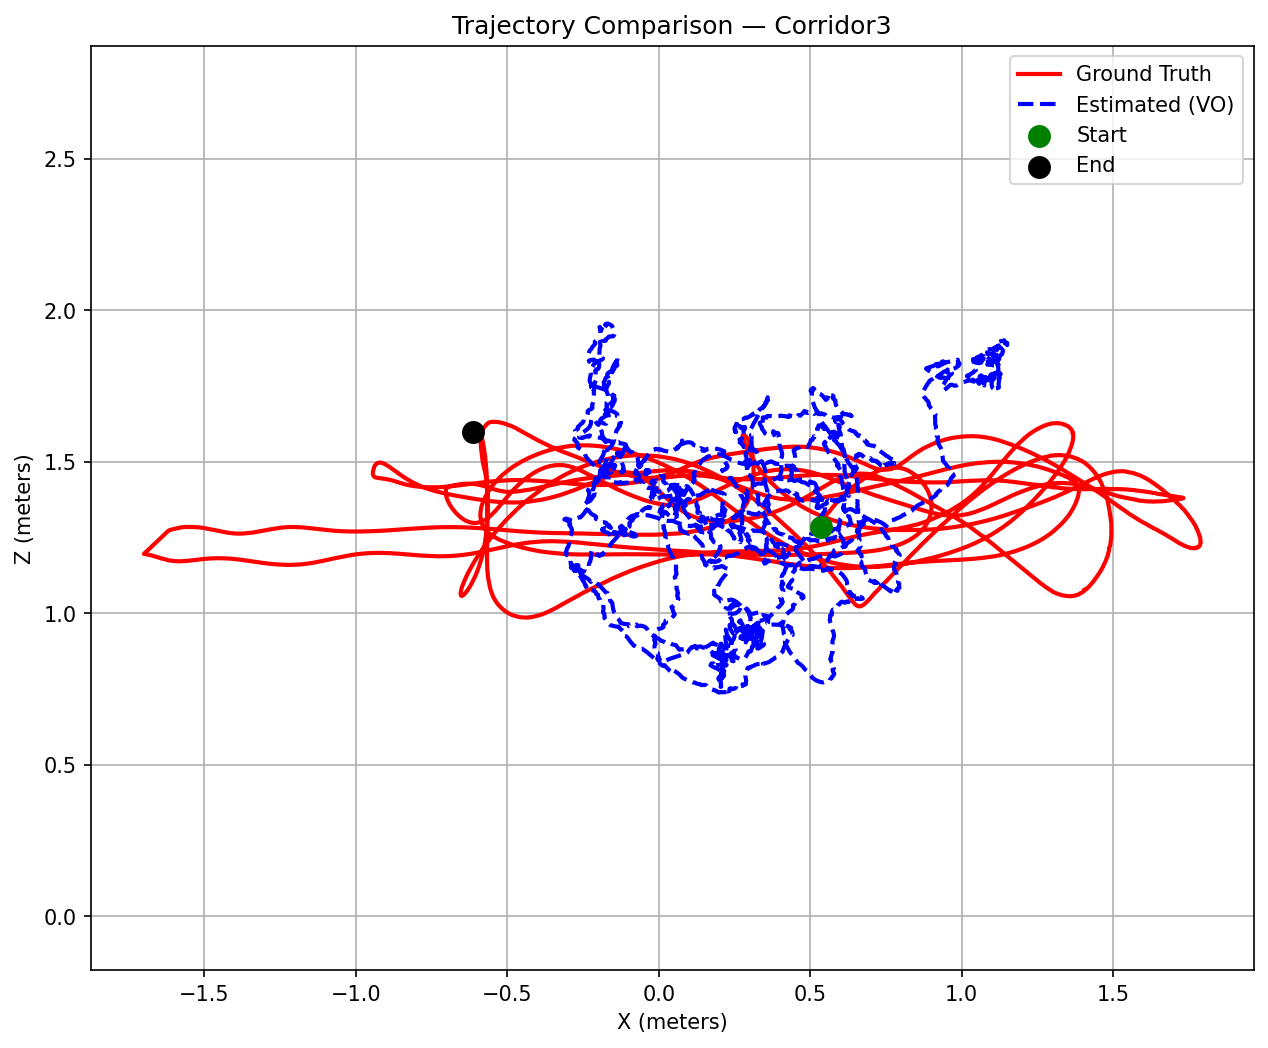
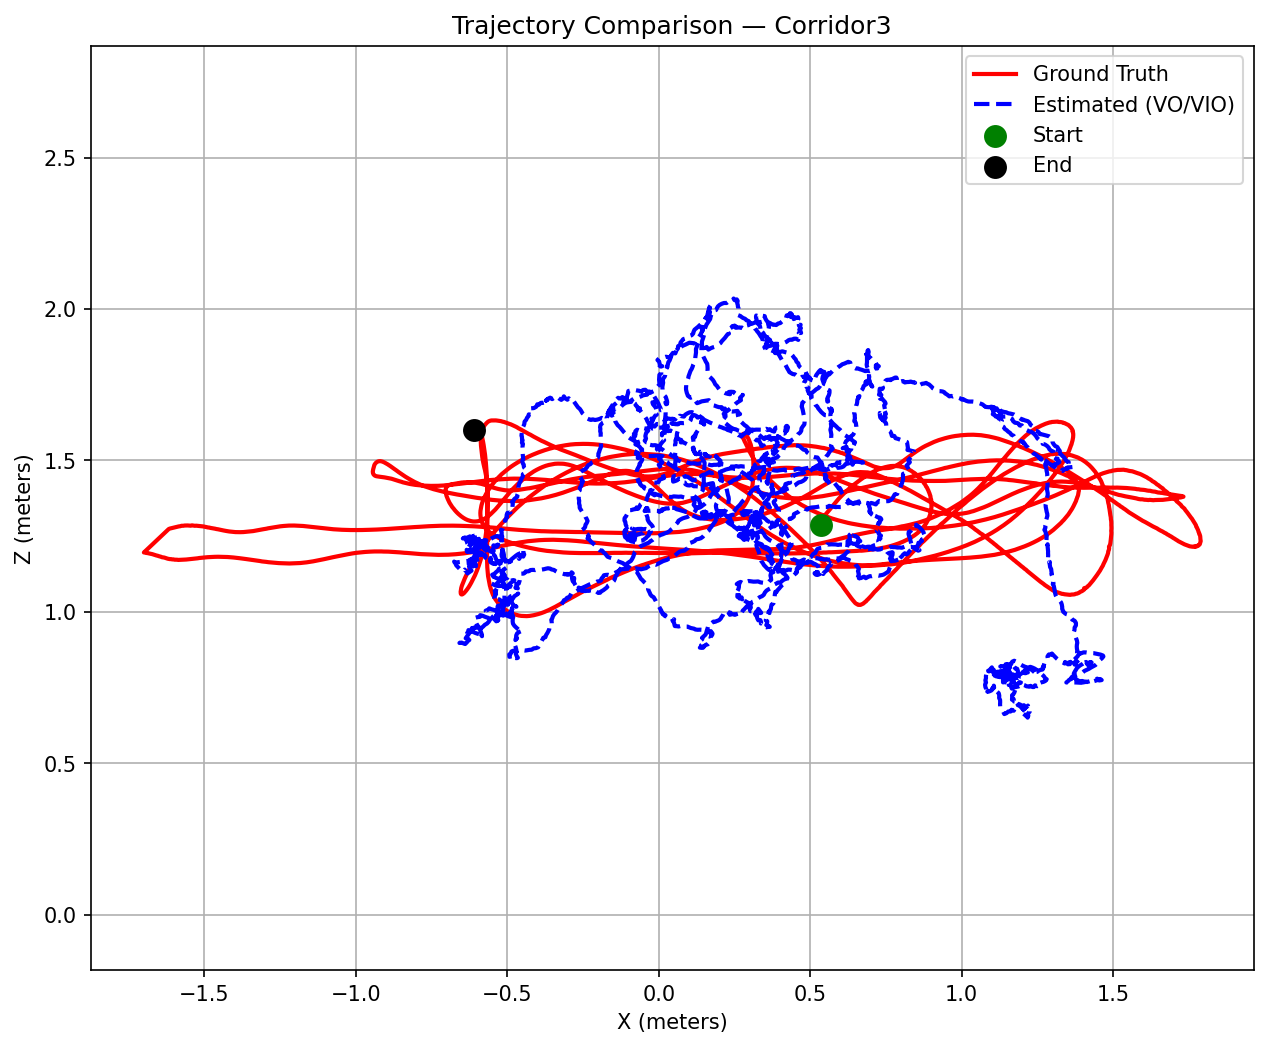
Added cross-check feature matching, final VO and VIO results

diff --git a/evaluate.py b/evaluate.py
@@ -8,23 +8,23 @@ from src.evaluation.ate import load_trajectory, compute_ate, align_trajectories,
 # Load estimated trajectory
 #traj_est = load_trajectory('results/trajectories/room2_vo.txt')
 #traj_est = load_trajectory('results/trajectories/corridor3_vo.txt')
-#traj_est = load_trajectory('results/trajectories/outdoors5_vo.txt')
+traj_est = load_trajectory('results/trajectories/outdoors5_vo.txt')
 #traj_est = load_trajectory('results/trajectories/room2_vio.txt')
-traj_est = load_trajectory('results/trajectories/corridor3_vio.txt')
+#traj_est = load_trajectory('results/trajectories/corridor3_vio.txt')
 
 # Load ground truth
 #gt_data = np.loadtxt('data/dataset-room2_512_16/dso/gt_imu.csv',
 #                      delimiter=',', skiprows=1)
 #gt_data = np.loadtxt('data/dataset-corridor3_512_16/dso/gt_imu.csv',
 #                      delimiter=',', skiprows=1)
-#gt_data = np.loadtxt('data/dataset-outdoors5_512_16/dso/gt_imu.csv',
-#                      delimiter=',', skiprows=1)
+gt_data = np.loadtxt('data/dataset-outdoors5_512_16/dso/gt_imu.csv',
+                      delimiter=',', skiprows=1)
 #gt_data = np.loadtxt('data/dataset-room2_512_16/dso/gt_imu.csv',
 #                      delimiter=',', skiprows=1)
 #gt_data = np.loadtxt('data/dataset-corridor3_512_16/dso/gt_imu.csv',
 #                      delimiter=',', skiprows=1)
-gt_data = np.loadtxt('data/dataset-outdoors5_512_16/dso/gt_imu.csv',
-                      delimiter=',', skiprows=1)
+#gt_data = np.loadtxt('data/dataset-outdoors5_512_16/dso/gt_imu.csv',
+#                      delimiter=',', skiprows=1)
 
 
 traj_gt = gt_data[:, 1:4]
@@ -37,13 +37,13 @@ traj_gt = traj_gt[:min_len]
 
 # Align trajectory properly using Umeyama
 # For VO use Sim(3):
-# traj_est_aligned = align_trajectories(traj_est, traj_gt)
+traj_est_aligned = align_trajectories(traj_est, traj_gt)
 
 # For VIO use SE(3):
-traj_est_aligned = align_se3(traj_est, traj_gt)
+#traj_est_aligned = align_se3(traj_est, traj_gt)
 
 # Sim(3) alignment for visual comparison only
-traj_est_sim3 = align_trajectories(traj_est, traj_gt)
+#traj_est_sim3 = align_trajectories(traj_est, traj_gt)
 
 # Compute ATE (after alignment)
 ate = compute_ate(traj_est, traj_gt)
@@ -54,29 +54,14 @@ rpe = compute_rpe(traj_est_aligned, traj_gt)
 print(f'RPE: {rpe:.4f} meters/100m')
 
 # Print clean results table
-#print_results('Room2', ate, rpe)
-#print_results('Corridor3', ate, rpe)
-#print_results('Outdoors5', ate, rpe)
 #print_results('Room2 VIO', ate, rpe)
 #print_results('Corridor3 VIO', ate, rpe)
-print_results('Outdoors5 VIO', ate, rpe)
+#print_results('Outdoors5 VIO', ate, rpe)
+#print_results('Room2 VO (with cross-check)', ate, rpe)
+#print_results('Room2 VO', ate, rpe)
+#print_results('Corridor3 VO', ate, rpe)
+print_results('Outdoors5 VO', ate, rpe)
 
-
-# Plot aligned trajectory
-#plot_trajectory_2d(
-#    traj_est_aligned, traj_gt,
-#    'Room2', 'results/plots/room2_vo.png'
-#)
-
-#plot_trajectory_2d(
-#    traj_est_aligned, traj_gt,
-#    'Corridor3', 'results/plots/corridor3_vo.png'
-#)
-
-#plot_trajectory_2d(
-#    traj_est_aligned, traj_gt,
-#    'Outdoors5', 'results/plots/outdoors5_vo.png'
-#)
 
 
 # Plot 1: SE(3) — honest evaluation
@@ -96,9 +81,21 @@ print_results('Outdoors5 VIO', ate, rpe)
 #    'Corridor3 VIO Sim3', 'results/plots/corridor3_vio_sim3.png')
 
 # SE(3) plot
-plot_trajectory_2d(traj_est_aligned, traj_gt,
-    'Outdoors5 VIO SE3', 'results/plots/outdoors5_vio_se3.png')
+#plot_trajectory_2d(traj_est_aligned, traj_gt,
+#    'Outdoors5 VIO SE3', 'results/plots/outdoors5_vio_se3.png')
 
-# Sim(3) plot
-plot_trajectory_2d(traj_est_sim3, traj_gt,
-    'Outdoors5 VIO Sim3', 'results/plots/outdoors5_vio_sim3.png')
+## Sim(3) plot
+#plot_trajectory_2d(traj_est_sim3, traj_gt,
+#    'Outdoors5 VIO Sim3', 'results/plots/outdoors5_vio_sim3.png')
+
+#plot_trajectory_2d(traj_est_aligned, traj_gt,
+#    'Room2 VO cross-check', 'results/plots/room2_vo_crosscheck.png')
+
+#plot_trajectory_2d(traj_est_aligned, traj_gt,
+#    'Room2', 'results/plots/room2_vo.png')
+
+#plot_trajectory_2d(traj_est_aligned, traj_gt,
+#    'Corridor3', 'results/plots/corridor3_vo.png')
+
+plot_trajectory_2d(traj_est_aligned, traj_gt,
+    'Outdoors5', 'results/plots/outdoors5_vo.png')

diff --git a/src/vo/feature_matching.py b/src/vo/feature_matching.py
@@ -1,6 +1,7 @@
 """
 Feature Matching using BFMatcher
 Step 2 of the VO pipeline.
+Uses ratio test + cross-check as required.
 """
 import cv2
 import numpy as np
@@ -10,7 +11,7 @@ np.random.seed(0)
 def match_features(des1, des2, ratio_threshold=0.75):
     """
     Match ORB descriptors between two frames
-    using ratio test to filter bad matches.
+    using ratio test + cross-check.
     
     Args:
         des1: descriptors from frame 1
@@ -22,21 +23,34 @@ def match_features(des1, des2, ratio_threshold=0.75):
     """
     bf = cv2.BFMatcher(cv2.NORM_HAMMING)
     
-    # Find 2 nearest neighbours for each descriptor
-    matches = bf.knnMatch(des1, des2, k=2)
+    # Step 1: Ratio test (forward matching)
+    matches_forward = bf.knnMatch(des1, des2, k=2)
     
-    # Apply ratio test - keep only good matches
-    good_matches = []
-    for m, n in matches:
+    ratio_passed = set()
+    for m, n in matches_forward:
         if m.distance < ratio_threshold * n.distance:
-            good_matches.append(m)
+            ratio_passed.add(m.queryIdx)
+
+    # Step 2: Cross-check (backward matching)
+    matches_backward = bf.knnMatch(des2, des1, k=2)
     
+    cross_check_passed = set()
+    for m, n in matches_backward:
+        if m.distance < ratio_threshold * n.distance:
+            cross_check_passed.add(m.trainIdx)
+
+    # Step 3: Keep only matches that passed both
+    good_matches = []
+    for m, n in matches_forward:
+        if (m.queryIdx in ratio_passed and 
+            m.queryIdx in cross_check_passed):
+            good_matches.append(m)
+
     return good_matches
 
 def visualize_matches(img1, kp1, img2, kp2, matches):
     """
     Draw matching features between two frames.
-    Good for debugging.
     """
     return cv2.drawMatches(
         img1, kp1, img2, kp2,

diff --git a/src/vo/pipeline.py b/src/vo/pipeline.py
@@ -90,12 +90,24 @@ if __name__ == "__main__":
     os.makedirs("results/tables", exist_ok=True)
 
 
-    run_vo_pipeline(
+
+#run_vo_pipeline(
+#    sequence_path="data/dataset-room2_512_16",
+#    config_path="configs/tum_vi.yaml",
+#    output_path="results/trajectories/room2_vo.txt"
+#)
+
+run_vo_pipeline(
     sequence_path="data/dataset-outdoors5_512_16",
     config_path="configs/tum_vi.yaml",
     output_path="results/trajectories/outdoors5_vo.txt"
 )
 
+#run_vo_pipeline(
+#    sequence_path="data/dataset-corridor3_512_16",
+#    config_path="configs/tum_vi.yaml",
+#    output_path="results/trajectories/corridor3_vo.txt"
+#)
 
 
 
